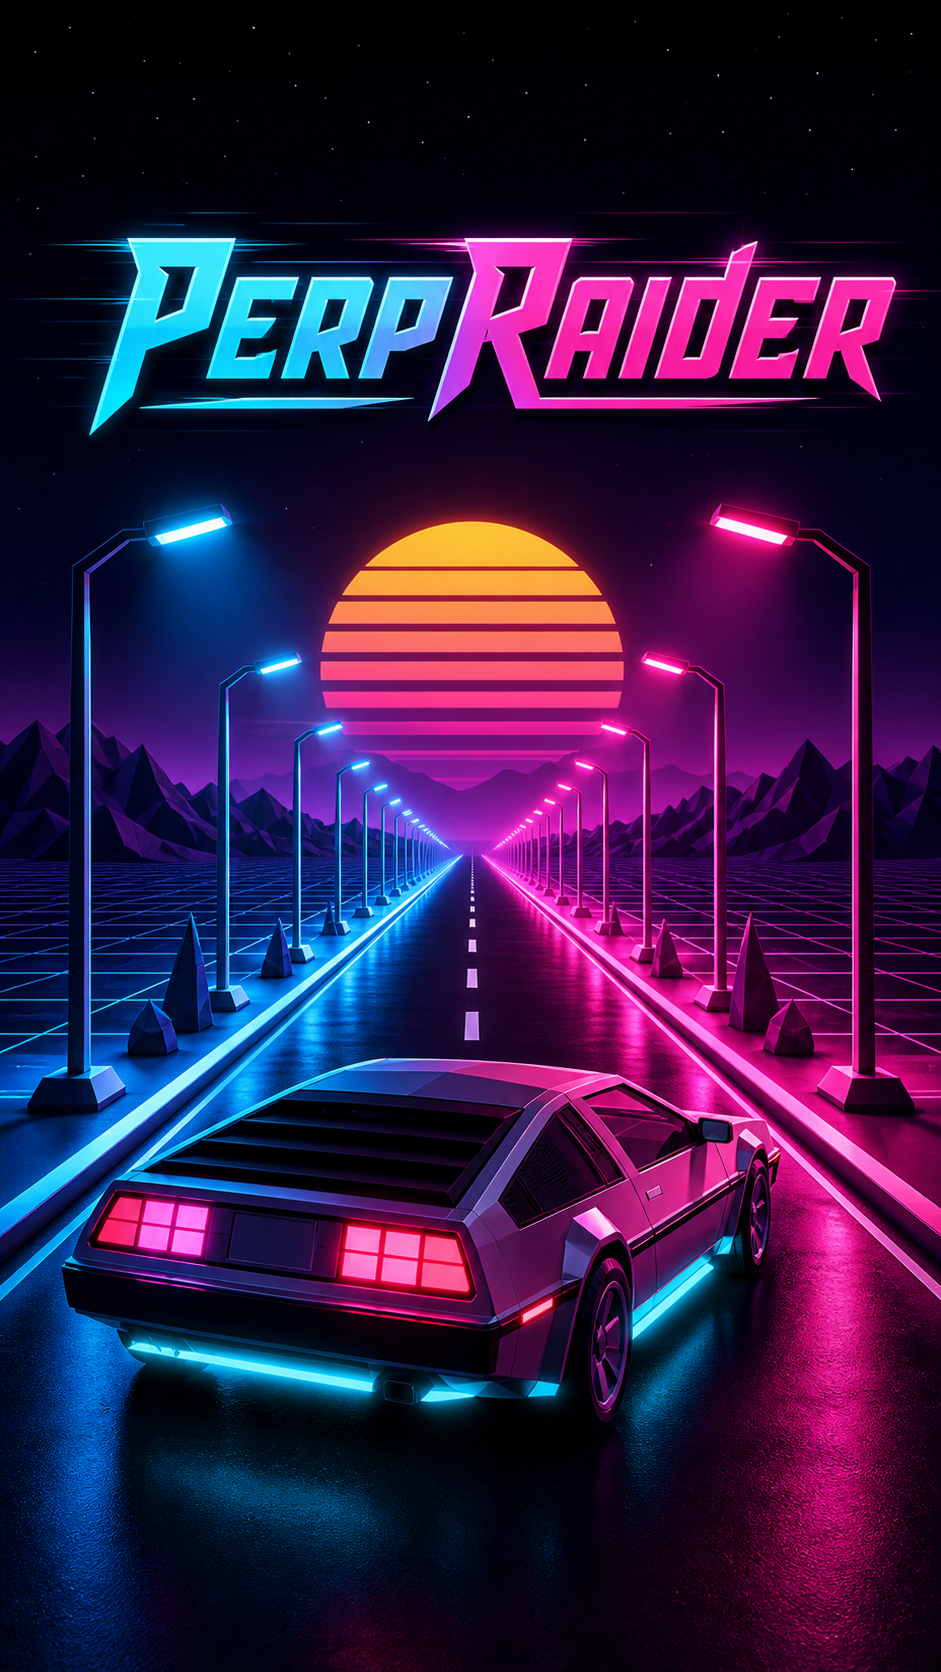
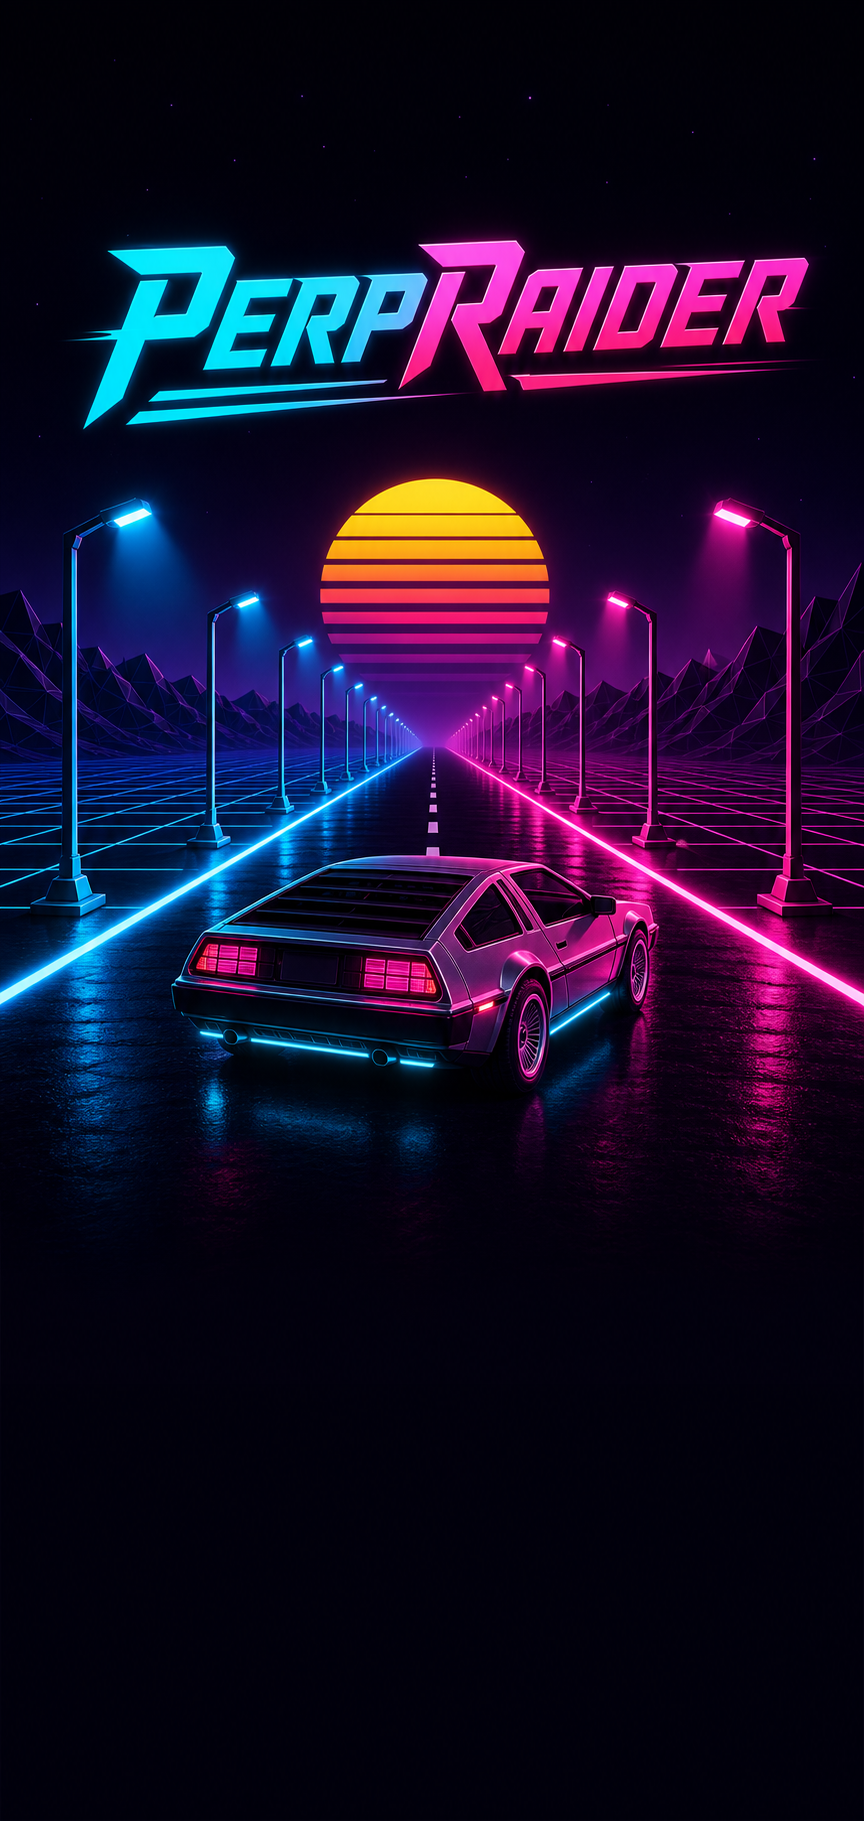
fix(world): kill the two phantom lines down the road in the distance
The neon grid has a vertical line every 20 units; two of them landed at x=±10,
inside the 26-wide road strip (±13). Near the camera the road hid them, but in
the distance (road fades) they bled through as two extra lines beside the centre
dash. Mask the grid out under the road footprint (vUv.x 0.484..0.516).

diff --git a/redline3d/src/render/world.ts b/redline3d/src/render/world.ts
@@ -19,7 +19,7 @@ function makeSun(): THREE.Group {
   // 2× bigger and pushed well behind the mountains (their pyramids' near faces
   // reach in front of ~-800, so the sun must sit deeper than the whole range to
   // stop the peaks clipping through the disc). -860 keeps it inside the r=900 sky.
-  const R = 116, CY = 120, Z = -860, N = 15;
+  const R = 116, CY = 74, Z = -860, N = 15;
   const top = new THREE.Color("#fff27a"), mid = new THREE.Color("#ff7a3c"), bot = new THREE.Color("#ff2d9a");
   for (let i = 0; i < N; i++) {
     const t = (i + 0.5) / N;              // 0 = top, 1 = bottom
@@ -96,6 +96,9 @@ export function createWorld(): World {
         float gx = line(vUv.x*40.0);
         float gz = line(vUv.y*160.0 + uOffset);
         float g = max(gx, gz);
+        // hide grid lines under the road strip (grid-x ±13 -> vUv.x 0.484..0.516)
+        // so they don't bleed through as extra lines in the distance
+        g *= 1.0 - step(0.484, vUv.x) * step(vUv.x, 0.516);
         vec3 c = mix(uColor2, uColor, vUv.x);
         float fade = smoothstep(0.0, 0.35, vUv.y);
         gl_FragColor = vec4(c, g * fade);
